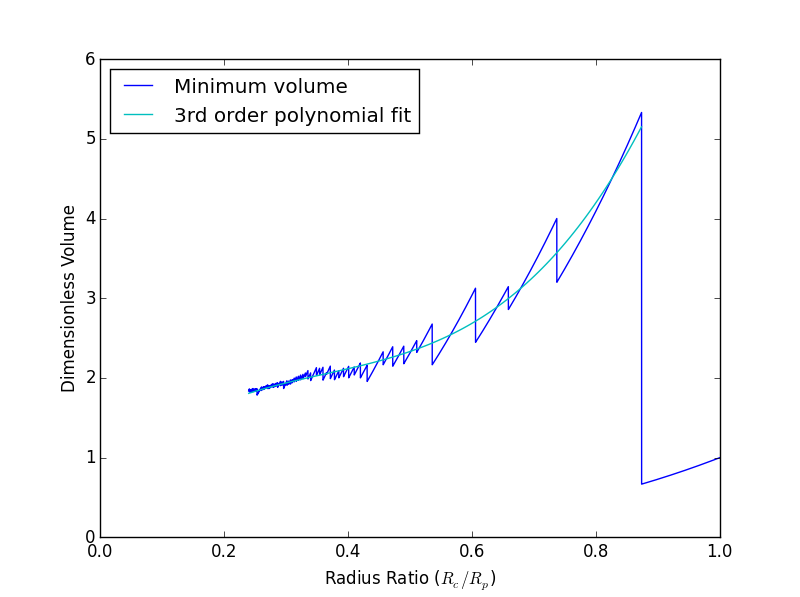
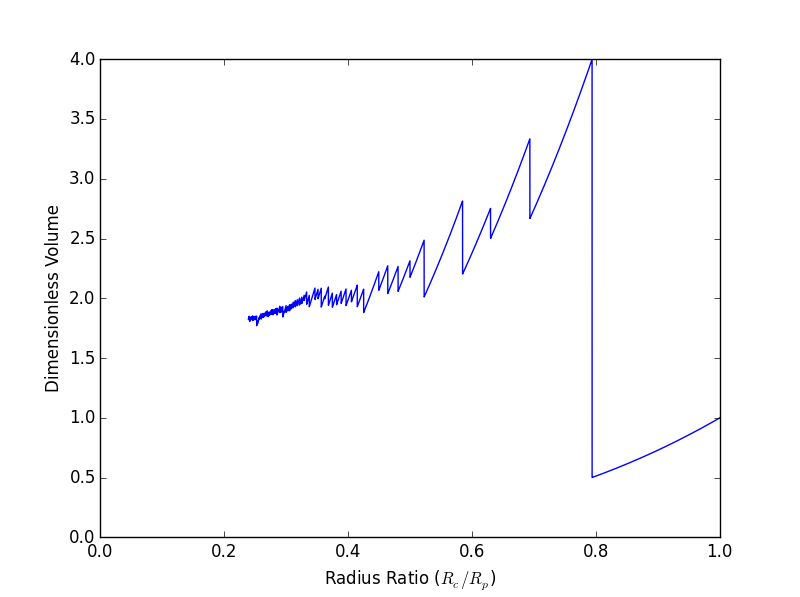
adds shaded regions to fragment images

diff --git a/scripts/crush-fragments/fragment-plots.py b/scripts/crush-fragments/fragment-plots.py
@@ -48,17 +48,35 @@ Vfit = np.poly1d(np.polyfit(Pf2fit,V2fit,3))
 
 #~~~~~~~~~~~~~~~~~~~~~~~~~~~~~~~~~~~~~~~~~~~~~~~~~~~~~~~~~~~~~~~~~~~~~~~~~~~~~~
 # plot the shit
-plt.figure(1)
-plt.plot(Pf, Vstar, label='Minimum volume')
-plt.plot(pfit, Vfit(pfit),'c',label='3rd order polynomial fit')
-plt.xlabel(r'Radius Ratio ($R_c/R_p$)')
-plt.ylabel(r'Dimensionless Volume')
-plt.xlim([0, 1])
-plt.legend(loc='best')
+fig1, ax1 = plt.subplots(1)
 
-plt.figure(2)
-plt.plot(rstar_1, N)
-plt.xlabel(r'Radius Ratio ($R_c/R_p$)')
-plt.ylabel('Pebble Fragments (rounded to whole number)')
+ax1.plot(Pf, Vstar, label='Minimum volume')
+#ax1.plot(pfit, Vfit(pfit),'c',label='3rd order polynomial fit')
+ax1.set_ylim([0, 4])
+
+# Create shaded region under 0.4
+Pf = np.array(Pf)
+Vstar = np.array(Vstar)
+Pf_shaded = Pf[np.where(Pf<0.4)]
+Vstar_shaded = Vstar[np.where(Pf<0.4)]
+ax1.fill_between(Pf_shaded, Vstar_shaded, 0, color='blue',alpha=0.3)
+#___________________________________________________________________
+
+
+# plot the other one
+ax1.set_xlabel(r'Radius Ratio ($R_c/R_p$)')
+ax1.set_ylabel(r'Dimensionless Volume')
+ax1.set_xlim([0, 1])
+
+fig2, ax2 = plt.subplots()
+ax2.plot(rstar_1, N)
+ax2.set_xlabel(r'Radius Ratio ($R_c/R_p$)')
+ax2.set_ylabel('Pebble Fragments (rounded to whole number)')
+
+# create shaded region above 0.3
+rstar_shaded = rstar_1[np.where(rstar_1 >= 0.3)]
+Nshaded = N[np.where(rstar_1 >= 0.3)]
+ax2.fill_between(rstar_shaded, Nshaded, 0, color='blue',alpha=0.3)
+#___________________________________________________________________
 
 plt.show()

diff --git a/VanLew_PhDThesis2014.tex b/VanLew_PhDThesis2014.tex
@@ -58,8 +58,7 @@
 % Literature Review
 \myPart{Literature Review}
 \input{chapters/sections/review-modeling-status.tex}
-\input{chapters/survey-background-analysis.tex}
-\input{chapters/survey-packed-bed.tex}
+
 
 % Methodology
 \myPart{Development of Modeling Tools for Pebble Bed Morphological Evolution Studies}
@@ -83,6 +82,8 @@
 \input{appendices/analytic-sphere-heat-generation.tex}
 \input{appendices/solid-breeder-history.tex}
 \input{appendices/dem-studies-stability.tex}
+\input{appendices/survey-background-analysis.tex}
+\input{appendices/survey-packed-bed.tex}
 
 
 \bibliography{library.bib}

diff --git a/chapters/studies-background-experiments.tex b/chapters/studies-background-experiments.tex
@@ -9,8 +9,3 @@ In section \cref{sec:exp-reduction-factor}, we use single pebble experiments to 
 \input{chapters/sections/exp-strain-energy.tex}
 
 
-
-
-
-
-
